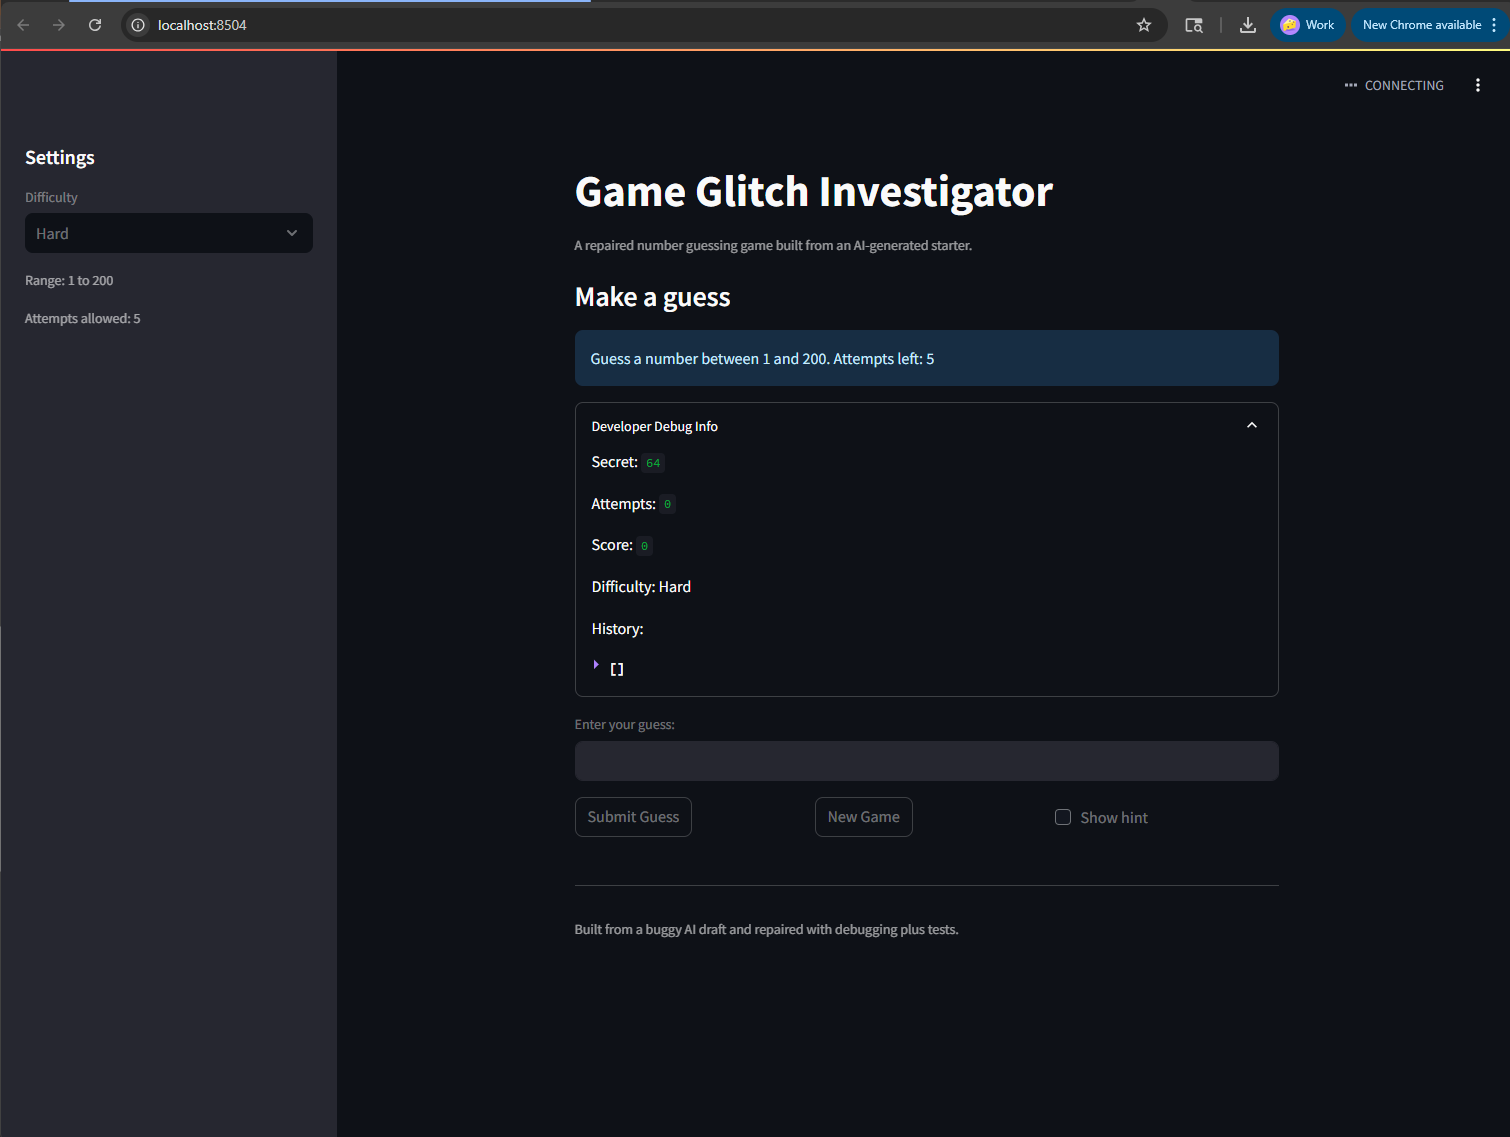
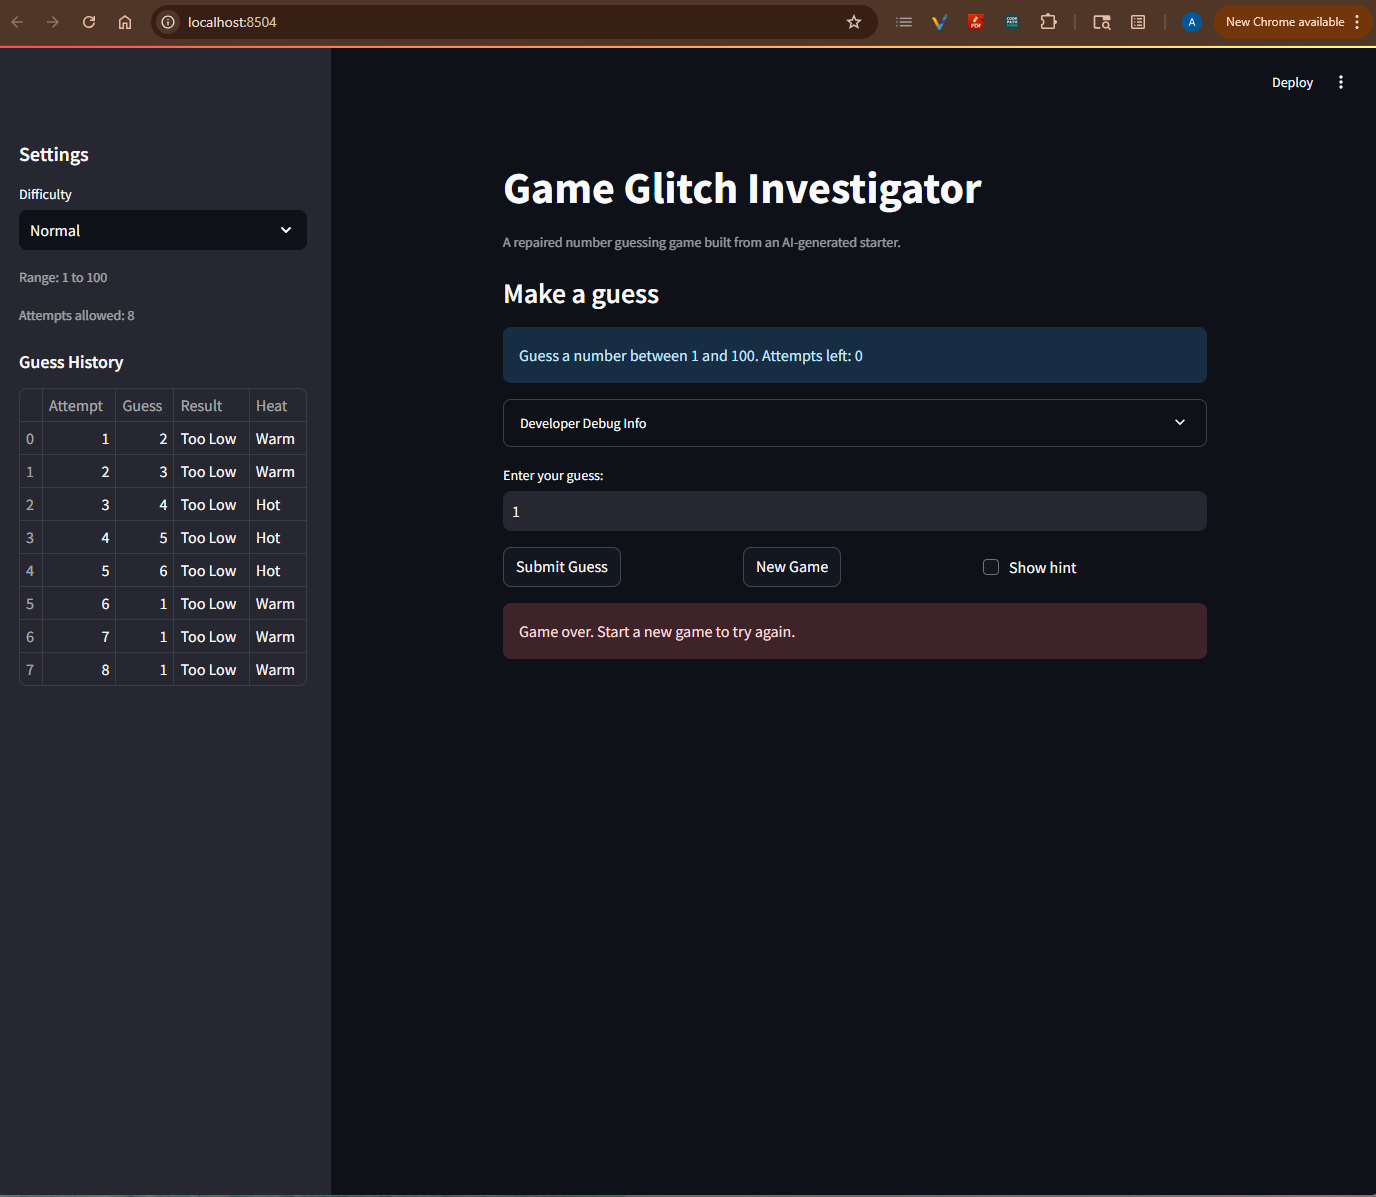
images + streche features

diff --git a/WEEK-2/ai110-module1show-gameglitchinvestigator-starter-main/ai110-module1show-gameglitchinvestigator-starter-main/app.py b/WEEK-2/ai110-module1show-gameglitchinvestigator-starter-main/ai110-module1show-gameglitchinvestigator-starter-main/app.py
@@ -2,7 +2,13 @@ import random
 
 import streamlit as st
 
-from logic_utils import check_guess, get_range_for_difficulty, parse_guess, update_score
+from logic_utils import (
+    check_guess,
+    describe_distance,
+    get_range_for_difficulty,
+    parse_guess,
+    update_score,
+)
 
 
 def reset_round(low: int, high: int) -> None:
@@ -49,6 +55,12 @@ if st.session_state.difficulty != difficulty:
     # FIX: Reset the round when the user changes difficulty so the secret matches the selected range.
     st.session_state.difficulty = difficulty
     reset_round(low, high)
+
+st.sidebar.subheader("Guess History")
+if st.session_state.history:
+    st.sidebar.table(st.session_state.history)
+else:
+    st.sidebar.caption("No guesses yet.")
 
 st.subheader("Make a guess")
 st.info(
@@ -98,13 +110,28 @@ if submit:
         st.error(f"Enter a number between {low} and {high}.")
     else:
         st.session_state.attempts += 1
-        st.session_state.history.append(guess_int)
-
         # FIX: Refactored comparison logic into logic_utils.py and removed the broken int/string switching.
         outcome, message = check_guess(guess_int, st.session_state.secret)
+        temperature = describe_distance(guess_int, st.session_state.secret)
+        st.session_state.history.append(
+            {
+                "Attempt": st.session_state.attempts,
+                "Guess": guess_int,
+                "Result": outcome,
+                "Heat": temperature,
+            }
+        )
 
-        if show_hint and outcome != "Win":
-            st.warning(message)
+        if show_hint:
+            feedback = f"{message} | {temperature}"
+            if outcome == "Win":
+                st.success("Correct! | Exact")
+            elif temperature == "Hot":
+                st.success(feedback)
+            elif temperature == "Warm":
+                st.warning(feedback)
+            else:
+                st.info(feedback)
 
         st.session_state.score = update_score(
             current_score=st.session_state.score,

diff --git a/WEEK-2/ai110-module1show-gameglitchinvestigator-starter-main/ai110-module1show-gameglitchinvestigator-starter-main/tests/test_game_logic.py b/WEEK-2/ai110-module1show-gameglitchinvestigator-starter-main/ai110-module1show-gameglitchinvestigator-starter-main/tests/test_game_logic.py
@@ -3,7 +3,13 @@ import sys
 
 sys.path.append(str(Path(__file__).resolve().parents[1]))
 
-from logic_utils import check_guess, get_range_for_difficulty, parse_guess, update_score
+from logic_utils import (
+    check_guess,
+    describe_distance,
+    get_range_for_difficulty,
+    parse_guess,
+    update_score,
+)
 
 
 def test_winning_guess():
@@ -50,3 +56,24 @@ def test_win_score_rewards_faster_guess():
 def test_wrong_guess_score_does_not_go_below_zero():
     assert update_score(0, "Too High", 1) == 0
     assert update_score(10, "Too Low", 2) == 5
+
+
+def test_parse_guess_accepts_negative_integer_input():
+    ok, guess, err = parse_guess("-7")
+    assert ok is True
+    assert guess == -7
+    assert err is None
+
+
+def test_parse_guess_rejects_large_non_numeric_input():
+    ok, guess, err = parse_guess("999999999999999999999999x")
+    assert ok is False
+    assert guess is None
+    assert err == "That is not a number."
+
+
+def test_describe_distance_uses_temperature_bands():
+    assert describe_distance(50, 50) == "Exact"
+    assert describe_distance(54, 50) == "Hot"
+    assert describe_distance(62, 50) == "Warm"
+    assert describe_distance(90, 50) == "Cold"

diff --git a/WEEK-2/ai110-module1show-gameglitchinvestigator-starter-main/ai110-module1show-gameglitchinvestigator-starter-main/logic_utils.py b/WEEK-2/ai110-module1show-gameglitchinvestigator-starter-main/ai110-module1show-gameglitchinvestigator-starter-main/logic_utils.py
@@ -47,6 +47,19 @@ def check_guess(guess, secret):
     return "Too Low", "Go HIGHER!"
 
 
+def describe_distance(guess: int, secret: int):
+    """Return a simple temperature label based on how close the guess is."""
+    difference = abs(guess - secret)
+
+    if difference == 0:
+        return "Exact"
+    if difference <= 5:
+        return "Hot"
+    if difference <= 15:
+        return "Warm"
+    return "Cold"
+
+
 def update_score(current_score: int, outcome: str, attempt_number: int):
     """Update score based on outcome and attempt number."""
     if outcome == "Win":

diff --git a/WEEK-2/ai110-module1show-gameglitchinvestigator-starter-main/ai110-module1show-gameglitchinvestigator-starter-main/README.md b/WEEK-2/ai110-module1show-gameglitchinvestigator-starter-main/ai110-module1show-gameglitchinvestigator-starter-main/README.md
@@ -26,14 +26,15 @@ The goal was to debug the app, move the game rules into a reusable logic module,
 
 ## Demo
 
-- Add a screenshot here after you run the fixed app locally and win one round.
 
 ## Preview
 
-<img src="https://github.com/user-attachments/assets/994d6980-2085-4b57-b68c-7e2a1b6e09a3" alt="Playlist Chaos Preview" width="600" />
+<img src="https://github.com/user-attachments/assets/6507d5f4-69f6-4874-b366-0ad7fee98d53" alt="Playlist Chaos Preview" width="600" />
 
 <img src="https://github.com/user-attachments/assets/5414a3e2-2cc5-4ba9-b484-1bbb07781d7a" alt="Playlist Chaos Preview" width="600" />
 
 ## Stretch Features
 
-- Not completed in this version.
+- Added enhanced game UI feedback with color-coded "Hot / Warm / Cold" messages after each valid guess.
+- Added a sidebar guess-history table that shows the attempt number, guess, result, and heat rating for the current round.
+- Added extra edge-case pytest coverage for negative input, invalid large input, and the new distance-label helper logic.
